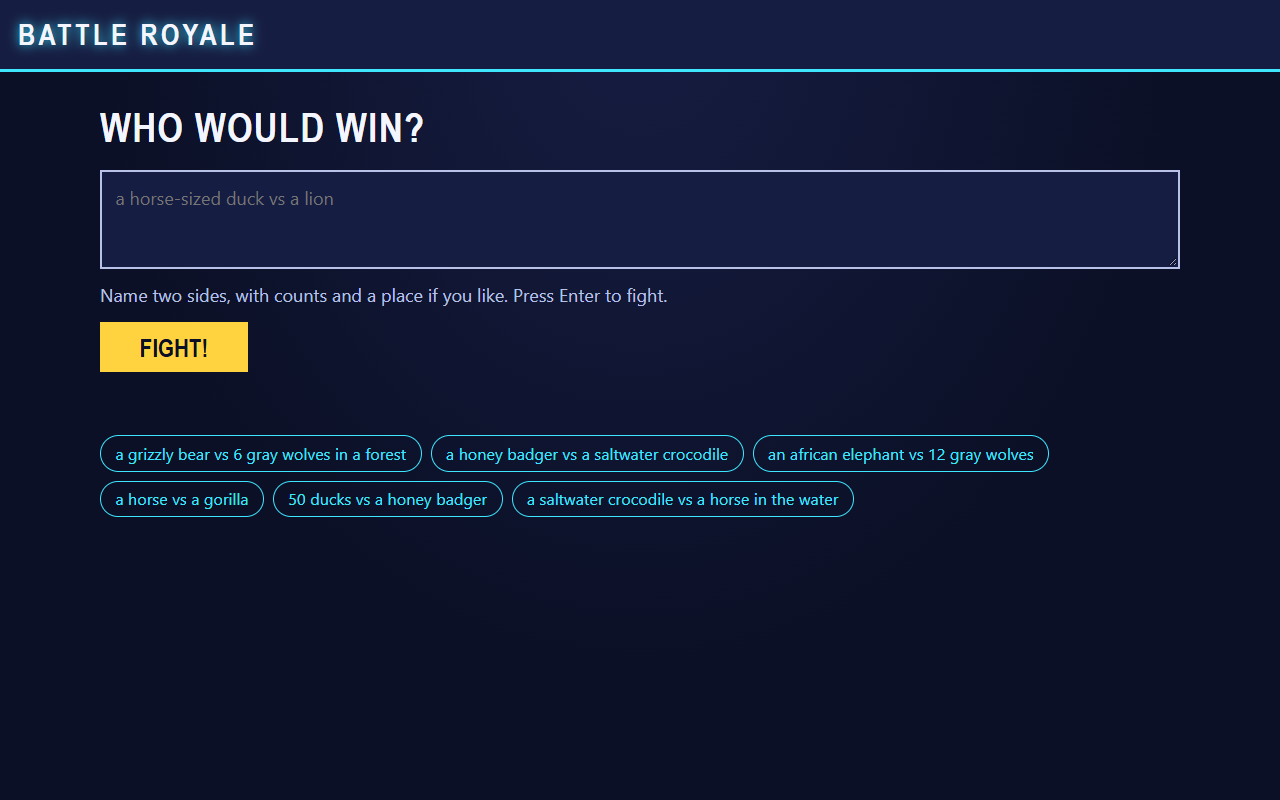
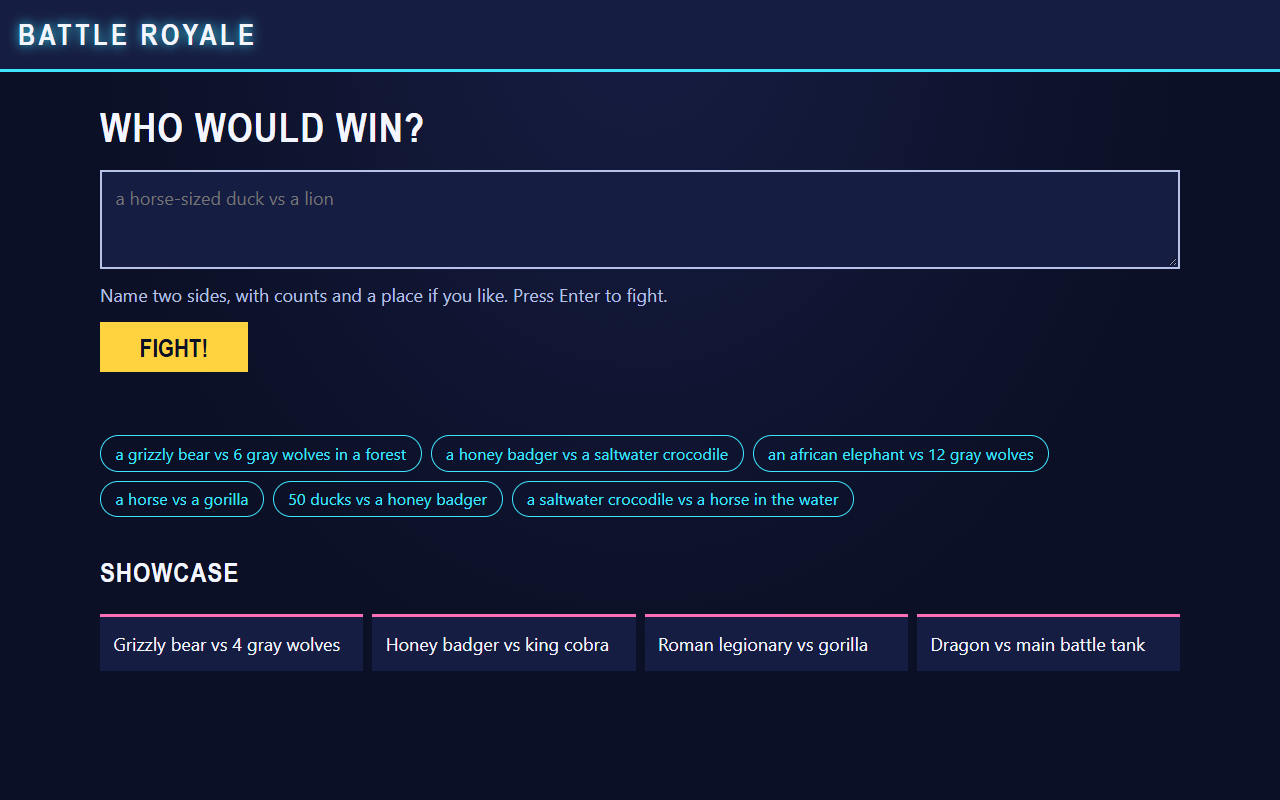
Fix what a fresh-clone walk-through of the guide hit (#49)
- Example chips fill the box; say to click FIGHT! after.
- Swap "100 duck-sized horses" for "10": the 100 version stops at "too big to simulate quickly".
- List the four showcase battles main has now; re-shoot the home page with them.
- Troubleshooting: Windows Application Control blocking uvicorn, with the python -m workaround.
- Redraw the npm start picture so the check marks aren't "?" boxes.

Changed region(s): [[0.0625, 0.6875, 0.9375, 0.8438]]

diff --git a/docs/user-guide.md b/docs/user-guide.md
@@ -119,7 +119,7 @@ Wait until you see **"Battle Royale is starting at http://localhost:8000"** and 
 
 Open your web browser (Chrome, Edge, Safari or Firefox) and go to **http://localhost:8000**.
 
-![The Battle Royale home page: "Who would win?" with a text box, a FIGHT! button and example matchups](images/user-guide/05-home.png)
+![The Battle Royale home page: "Who would win?" with a text box, a FIGHT! button, example matchups and the showcase battles](images/user-guide/05-home.png)
 
 **To stop the app:** click the terminal window and press **Ctrl+C**. To start it again later, open a terminal in the same folder and run `npm start`. You don't need to repeat steps 1 to 5.
 
@@ -127,12 +127,12 @@ Open your web browser (Chrome, Edge, Safari or Firefox) and go to **http://local
 
 ### Type a matchup
 
-Type two sides into the box, with how many of each and, if you like, a place. Then press Enter or click **FIGHT!**. You can also click one of the example matchups under the box.
+Type two sides into the box, with how many of each and, if you like, a place. Then press Enter or click **FIGHT!**. You can also click one of the example matchups under the box: it fills in the box, and then you click **FIGHT!**.
 
 Good examples:
 
 - `a grizzly bear vs 6 gray wolves in a forest`
-- `100 duck-sized horses vs 1 horse-sized duck`
+- `10 duck-sized horses vs 1 horse-sized duck`
 - `a honey badger vs a king cobra`
 - `a saltwater crocodile vs a horse in the water`
 
@@ -201,13 +201,12 @@ Click **See the full results**. Each part, top to bottom:
 
 ### Showcase battles
 
-Five ready-made battles show off what the app can do. They load automatically when the app starts and appear under **Showcase** on the home page:
+Ready-made battles show off what the app can do. They load automatically when the app starts and appear under **Showcase** on the home page. Click one to watch it straight away, with no waiting:
 
-1. 100 duck-sized horses vs 1 horse-sized duck
-2. A grizzly bear vs 6 gray wolves in a forest
-3. A honey badger vs a king cobra
-4. A Roman legionary vs a gorilla in a forest
-5. A dragon vs a main battle tank
+1. Grizzly bear vs 4 gray wolves
+2. Honey badger vs king cobra
+3. Roman legionary vs gorilla
+4. Dragon vs main battle tank
 
 ## 4. What it won't do
 
@@ -233,6 +232,7 @@ The show is PG: knockouts and retreats, no blood or gore.
 | Problem | Fix |
 |---|---|
 | **Windows: "running scripts is disabled on this system"** when you type `npm` | Type `npm.cmd` instead of `npm`, for example `npm.cmd run setup` and `npm.cmd start`. There's no need to change any Windows security settings. |
+| **Windows: `npm start` stops with "Failed to spawn: uvicorn" and "An Application Control policy has blocked this file"** | Windows blocked one of the app's newly installed programs. Start the app this way instead: run `npm run build`, then `uv run --directory backend python -m uvicorn app.main:app --port 8000`, and open http://localhost:8000 as usual. There's no need to change any Windows security settings. |
 | **"'node' (or 'uv') is not recognized" / "command not found"** | Close the terminal and open a new one after installing, so it finds the new programs. If it still fails, install that program again (step 1). |
 | **The page says "We couldn't reach the studio"**, or the browser says it can't connect to localhost:8000 | The app isn't running. Check that the `npm start` window is still open and shows "Application startup complete". If you closed it, run `npm start` again, then refresh the page (F5, or Cmd+R on Mac). |
 | **"This fight was called off"** with "We don't have a stat sheet for … yet" | The app doesn't know that fighter yet. Pick one of the 15 fighters listed in [Type a matchup](#type-a-matchup), or click an example matchup. |
